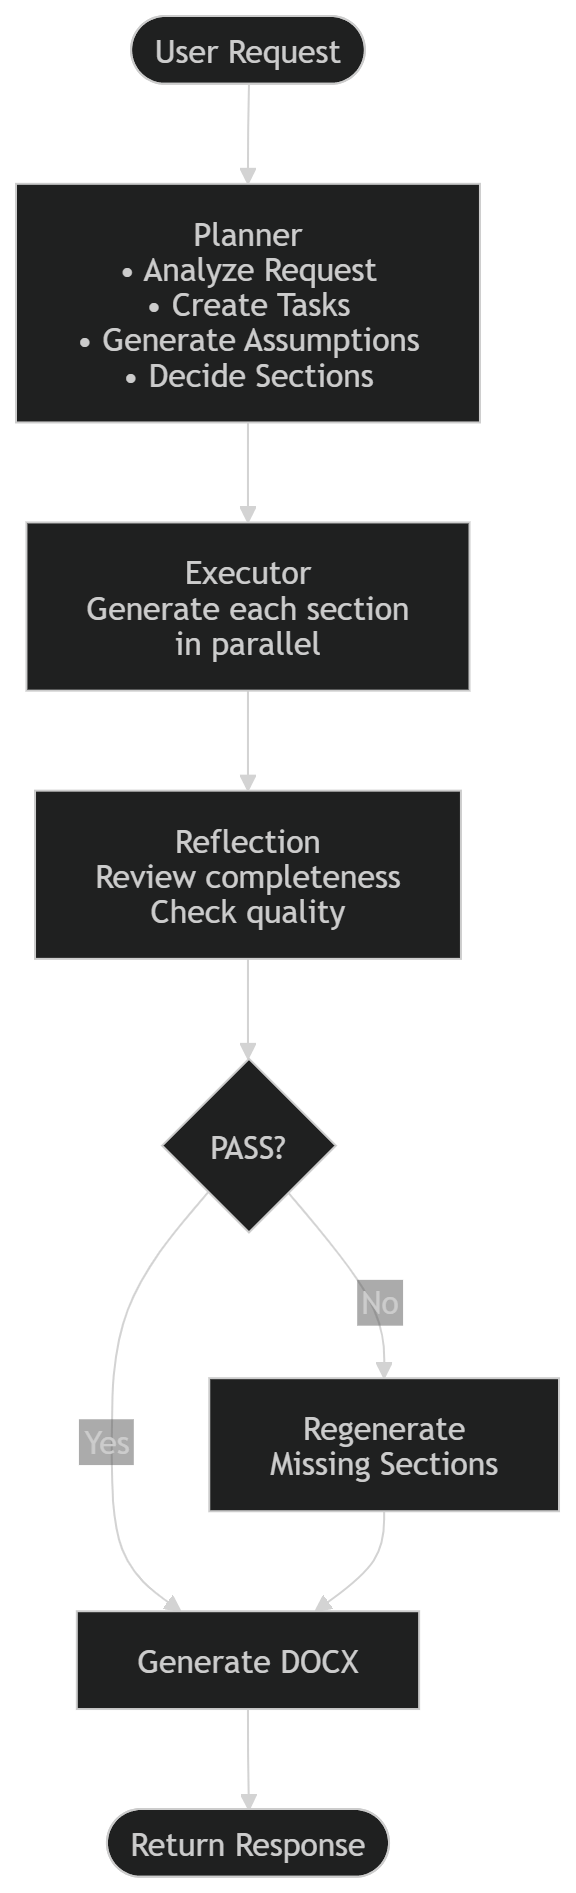
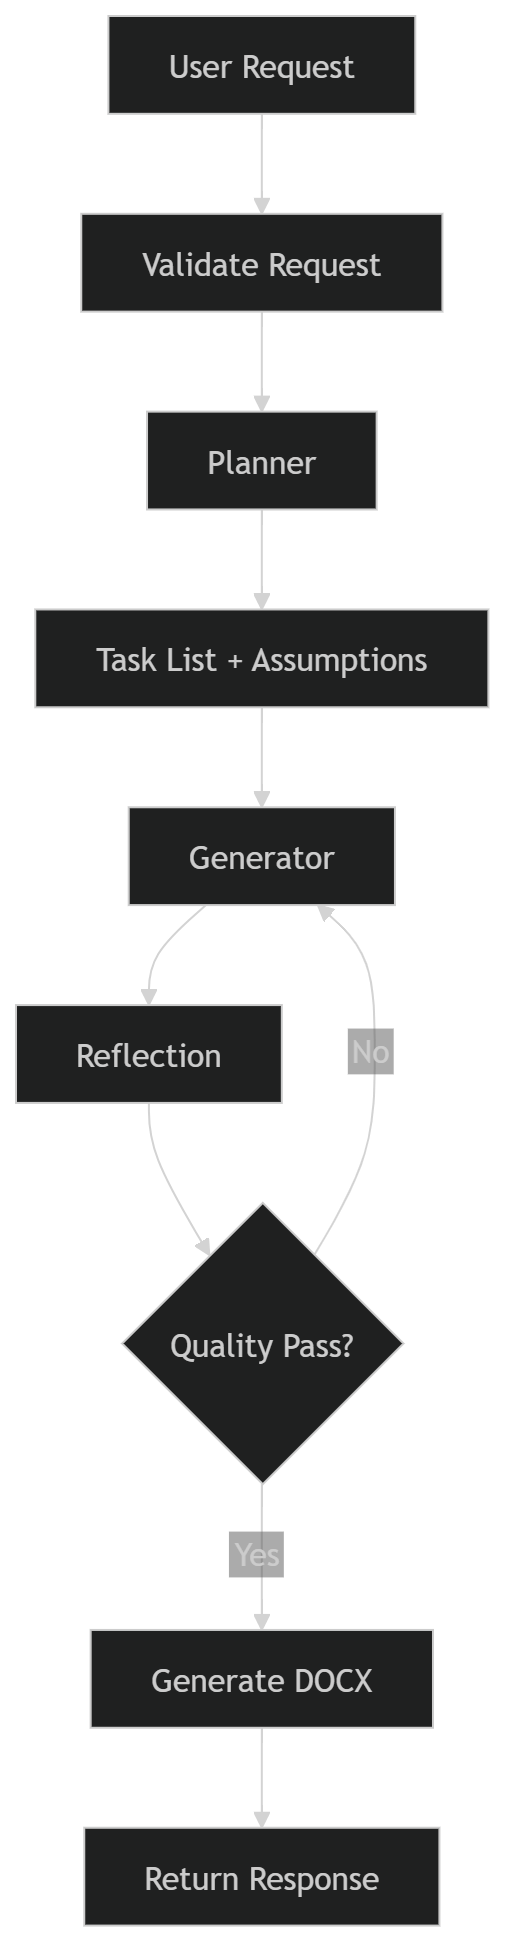
submission ready -- speed,quality and everything seems good enough

diff --git a/agent/executor.py b/agent/executor.py
@@ -49,30 +49,14 @@ def generate_document(
     start = time.time()
     retries_before = tracker.retry_count
 
-    # DIAGNOSTIC - remove after debugging
-    def _diag_executor_call():
-        _t0 = time.time()
-        print(f"  [DIAGNOSTIC] Executor chain.invoke() starting at t={_t0:.3f}")
-        try:
-            _res = chain.invoke(
-                {
-                    "document_title": plan.document_title,
-                    "user_request": user_request,
-                    "sections": sections_str,
-                    "assumptions": assumptions_str,
-                    "feedback_section": feedback_section,
-                }
-            )
-            _t1 = time.time()
-            print(f"  [DIAGNOSTIC] Executor chain.invoke() succeeded at t={_t1:.3f} (+{_t1-_t0:.3f}s)")
-            return _res
-        except Exception as e:
-            _t1 = time.time()
-            print(f"  [DIAGNOSTIC] Executor chain.invoke() FAILED at t={_t1:.3f} (+{_t1-_t0:.3f}s): {type(e).__name__} {repr(e)}")
-            raise
-
     response = invoke_with_retry(
-        _diag_executor_call,
+        lambda: chain.invoke({
+            "document_title": plan.document_title,
+            "user_request": user_request,
+            "sections": sections_str,
+            "assumptions": assumptions_str,
+            "feedback_section": feedback_section,
+        }),
         label="Document Generation",
         max_retries=1,
     )

diff --git a/agent/reflector.py b/agent/reflector.py
@@ -70,29 +70,13 @@ def review_document(
     start = time.time()
     retries_before = tracker.retry_count
 
-    # DIAGNOSTIC - remove after debugging
-    def _diag_reflector_call():
-        _t0 = time.time()
-        print(f"  [DIAGNOSTIC] Reflector chain.invoke() starting at t={_t0:.3f}")
-        try:
-            _res = chain.invoke(
-                {
-                    "document_title": plan.document_title,
-                    "requested_sections": requested_sections,
-                    "full_document": full_document,
-                    "user_request": user_request,
-                }
-            )
-            _t1 = time.time()
-            print(f"  [DIAGNOSTIC] Reflector chain.invoke() succeeded at t={_t1:.3f} (+{_t1-_t0:.3f}s)")
-            return _res
-        except Exception as e:
-            _t1 = time.time()
-            print(f"  [DIAGNOSTIC] Reflector chain.invoke() FAILED at t={_t1:.3f} (+{_t1-_t0:.3f}s): {type(e).__name__} {repr(e)}")
-            raise
-
     response = invoke_with_retry(
-        _diag_reflector_call,
+        lambda: chain.invoke({
+            "document_title": plan.document_title,
+            "requested_sections": requested_sections,
+            "full_document": full_document,
+            "user_request": user_request,
+        }),
         label="Reflection",
     )
     duration = time.time() - start

diff --git a/agent/planner.py b/agent/planner.py
@@ -29,21 +29,10 @@ def create_plan(user_request: str, llm: BaseLanguageModel) -> PlannerOutput:
     start = time.time()
     retries_before = tracker.retry_count
 
-    # DIAGNOSTIC - remove after debugging
-    def _diag_planner_call():
-        _t0 = time.time()
-        print(f"  [DIAGNOSTIC] Planner chain.invoke() starting at t={_t0:.3f}")
-        try:
-            _res = chain.invoke({"request": user_request})
-            _t1 = time.time()
-            print(f"  [DIAGNOSTIC] Planner chain.invoke() succeeded at t={_t1:.3f} (+{_t1-_t0:.3f}s)")
-            return _res
-        except Exception as e:
-            _t1 = time.time()
-            print(f"  [DIAGNOSTIC] Planner chain.invoke() FAILED at t={_t1:.3f} (+{_t1-_t0:.3f}s): {type(e).__name__} {repr(e)}")
-            raise
-
-    result = invoke_with_retry(_diag_planner_call, label="Planner")
+    result = invoke_with_retry(
+        lambda: chain.invoke({"request": user_request}),
+        label="Planner",
+    )
     duration = time.time() - start
     retries = tracker.retry_count - retries_before
 

diff --git a/config.py b/config.py
@@ -7,15 +7,15 @@ class Settings(BaseSettings):
     nvidia_api_key: str = ""
     mistral_api_key: str = ""
 
-    planner_model: str = "gemma-4-31b-it"
-    generator_model: str = "nvidia/nemotron-3-ultra-550b-a55b"
-    reflector_model: str = "gemma-4-31b-it"
+    planner_model: str = "mistral-small-latest"
+    generator_model: str = "mistral-small-latest"
+    reflector_model: str = "mistral-small-latest"
     fallback_model: str = "mistral-large-latest"
 
     temperature: float = 0.3
-    request_timeout: int = 15
-    nvidia_max_tokens: int = 16384
-    mistral_max_tokens: int = 16384
+    request_timeout: int = 120
+    nvidia_max_tokens: int = 8192
+    mistral_max_tokens: int = 8192
 
     output_dir: str = "generated_docs"
     app_title: str = "Autonomous Agent API"

diff --git a/app.py b/app.py
@@ -31,10 +31,7 @@ async def health():
 
 
 @app.post("/agent", response_model=AgentResponse)
-async def agent_endpoint(request: AgentRequest):
-    # DIAGNOSTIC - remove after debugging
-    print(f"[DIAGNOSTIC] /agent request received: len={len(request.request)} chars")
-    print(f"[DIAGNOSTIC] /agent request preview: {repr(request.request[:200])}{'...' if len(request.request) > 200 else ''}")
+def agent_endpoint(request: AgentRequest):
 
     if not request.request.strip():
         raise HTTPException(status_code=400, detail="Request cannot be empty.")

diff --git a/README.md b/README.md
@@ -2,11 +2,11 @@
 
 A Python-based autonomous AI agent that accepts natural language requests, plans tasks, executes them, and generates professional Word (.docx) documents.
 
-Built with FastAPI, LangChain, python-docx, and three AI providers: **Google AI Studio**, **NVIDIA NIM**, and **Mistral AI**.
+Built with FastAPI, LangChain, python-docx, and **Mistral AI** as the primary provider (with Google AI Studio and NVIDIA NIM available as alternatives).
 
 ## Architecture
 
-![Architecture](diagrams/architecture.png)
+![Overall Architecture](diagrams/overall-architecture.png)
 
 ## Agent Workflow
 
@@ -15,12 +15,14 @@ User Request
      │
      ▼
 Planner ──► Generator ──► Reflection ──► DOCX Builder
-(Google)    (NVIDIA)       (Google)       (python-docx)
+(Mistral)   (Mistral)      (Mistral)      (python-docx)
                 │               │
                 ▼               ▼
            Fallback          Optional
-           (Mistral)         Regeneration
+            (Mistral)         Regeneration
 ```
+
+![Agent Workflow](diagrams/agent-workflow.png)
 
 ## Folder Structure
 
@@ -51,6 +53,12 @@ project/
     planner_output.py     Planner output schema
 ```
 
+![Folder Structure](diagrams/architecture-doc-agent.png)
+
+## Component Architecture
+
+![Component Architecture](diagrams/component-architecture.png)
+
 ## Installation
 
 ```bash
@@ -63,17 +71,17 @@ pip install -r requirements.txt
 Create a `.env` file in the `project/` directory:
 
 ```
-GEMINI_API_KEY=your_gemini_api_key_here
-NVIDIA_API_KEY=your_nvidia_api_key_here
-MISTRAL_API_KEY=your_mistral_api_key_here
+MISTRAL_API_KEY=your_mistral_api_key_here        # Required (default provider)
+GEMINI_API_KEY=your_gemini_api_key_here           # Optional
+NVIDIA_API_KEY=your_nvidia_api_key_here           # Optional
 ```
 
-At least one API key is required. The `primary_model` and `fallback_model` in `config.py` determine which provider is used.
+At least a Mistral API key is required. The four model settings in `config.py` (`planner_model`, `generator_model`, `reflector_model`, `fallback_model`) determine which provider handles each role.
 
 Get free API keys at:
+- [Mistral AI](https://console.mistral.ai/api-keys/)
 - [Google AI Studio](https://makersuite.google.com/app/apikey)
 - [NVIDIA NIM](https://build.nvidia.com)
-- [Mistral AI](https://console.mistral.ai/api-keys/)
 
 ## Running Locally
 
@@ -119,6 +127,8 @@ Accepts a natural language request and returns a structured response with a gene
   ]
 }
 ```
+
+![Request Lifecycle](diagrams/request-lifecycle.png)
 
 ### GET /
 
@@ -167,21 +177,25 @@ This replaces the previous per-section regeneration with single-pass full-docume
 - **Dependency injection**: Components receive `llm` via parameter, never call `create_llm()` themselves
 - **Retry with exponential backoff**: Transient errors (429/5xx/timeout) retried up to 2 times with jitter
 - **Provider fallback**: If primary fails after retries, automatically switches to fallback provider
-- **Sequential execution**: Sections generated one at a time to avoid rate limit errors
+- **Single-pass execution**: Entire document generated in one LLM call — fast, consistent tone
 - **Quality scoring**: Reflection assigns a 1-10 score and identifies weak sections
 - **Instrumentation**: Every LLM call logs provider, model, duration, prompt/response size, retries
+
+![Retry & Fallback](diagrams/retry-mechanism.png)
 
 ## Provider Architecture
 
 The system supports three AI providers, switched by model name prefix:
 
-| Prefix | Provider | Example Model |
-|--------|----------|---------------|
-| `nvidia/` | NVIDIA NIM | `nvidia/nemotron-3-ultra-550b-a55b` |
-| `mistral` | Mistral AI | `mistral-large-latest` |
-| (anything else) | Google AI Studio | `gemma-4-31b-it` |
+| Prefix | Provider | Note |
+|--------|----------|------|
+| `mistral` | Mistral AI | **Default** — `mistral-small-latest` (planner, generator, reflector) / `mistral-large-latest` (fallback) |
+| `nvidia/` | NVIDIA NIM | Available — e.g. `nvidia/nemotron-3-ultra-550b-a55b` |
+| (anything else) | Google AI Studio | Available — e.g. `gemma-4-31b-it` |
 
-Set `primary_model` and `fallback_model` in `config.py` to any combination.
+Set `planner_model`, `generator_model`, `reflector_model`, and `fallback_model` in `config.py` to any combination.
+
+![Multi-Provider LLM Routing](diagrams/multi-llm-providers.png)
 
 ## Tradeoffs
 
@@ -202,3 +216,4 @@ Set `primary_model` and `fallback_model` in `config.py` to any combination.
 - Conversation memory for iterative document refinement
 - Web search tool for up-to-date research during generation
 - Parallel section-level generation with batched API calls for even faster execution
+- Provider-agnostic fallback chain (Mistral → NVIDIA → Google) with configurable order